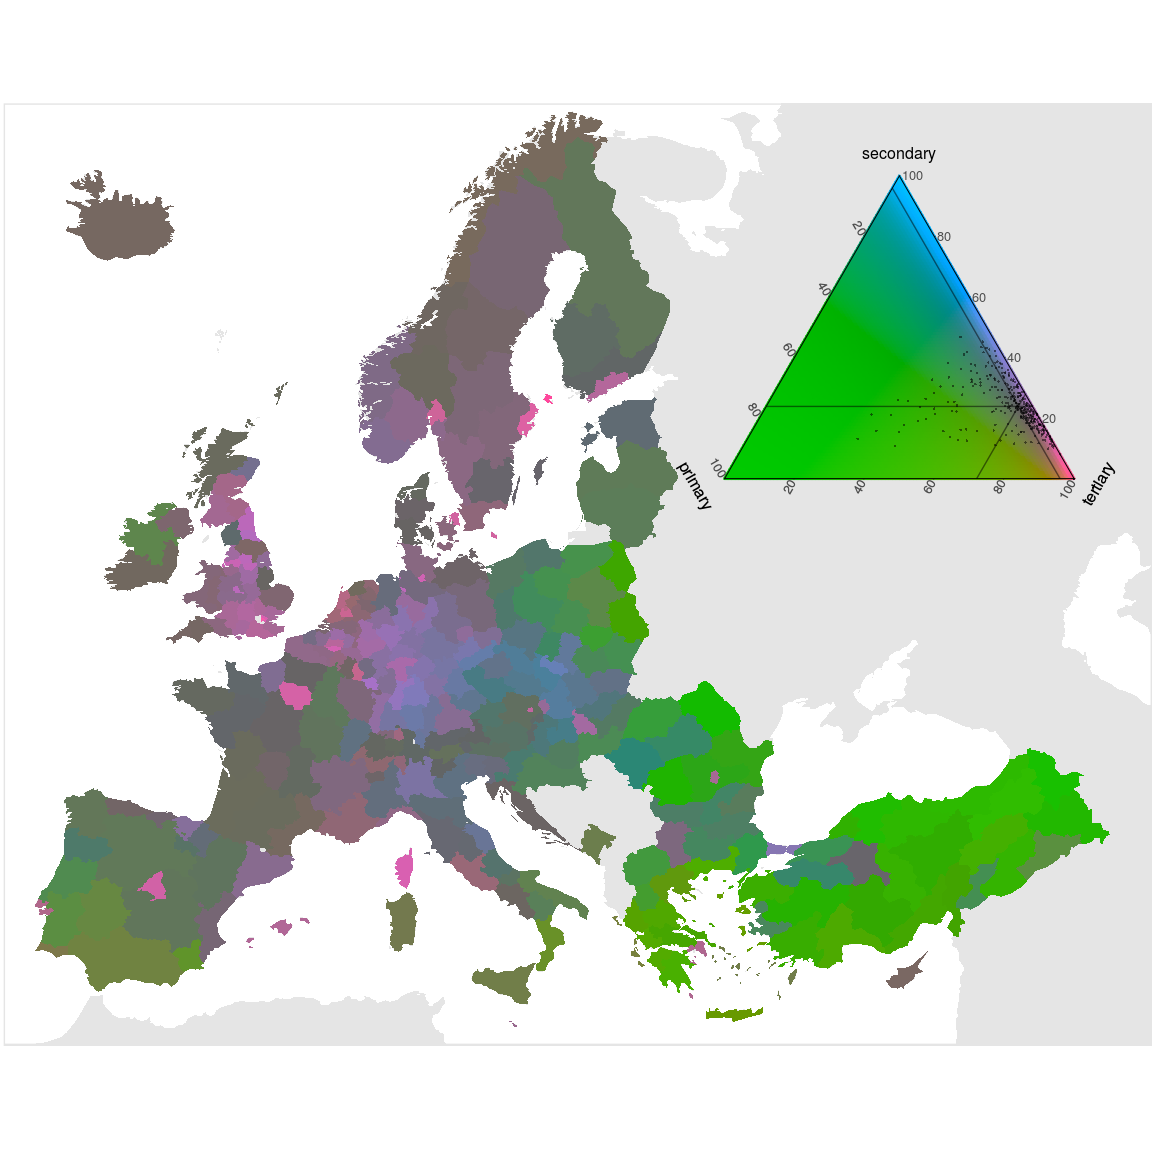
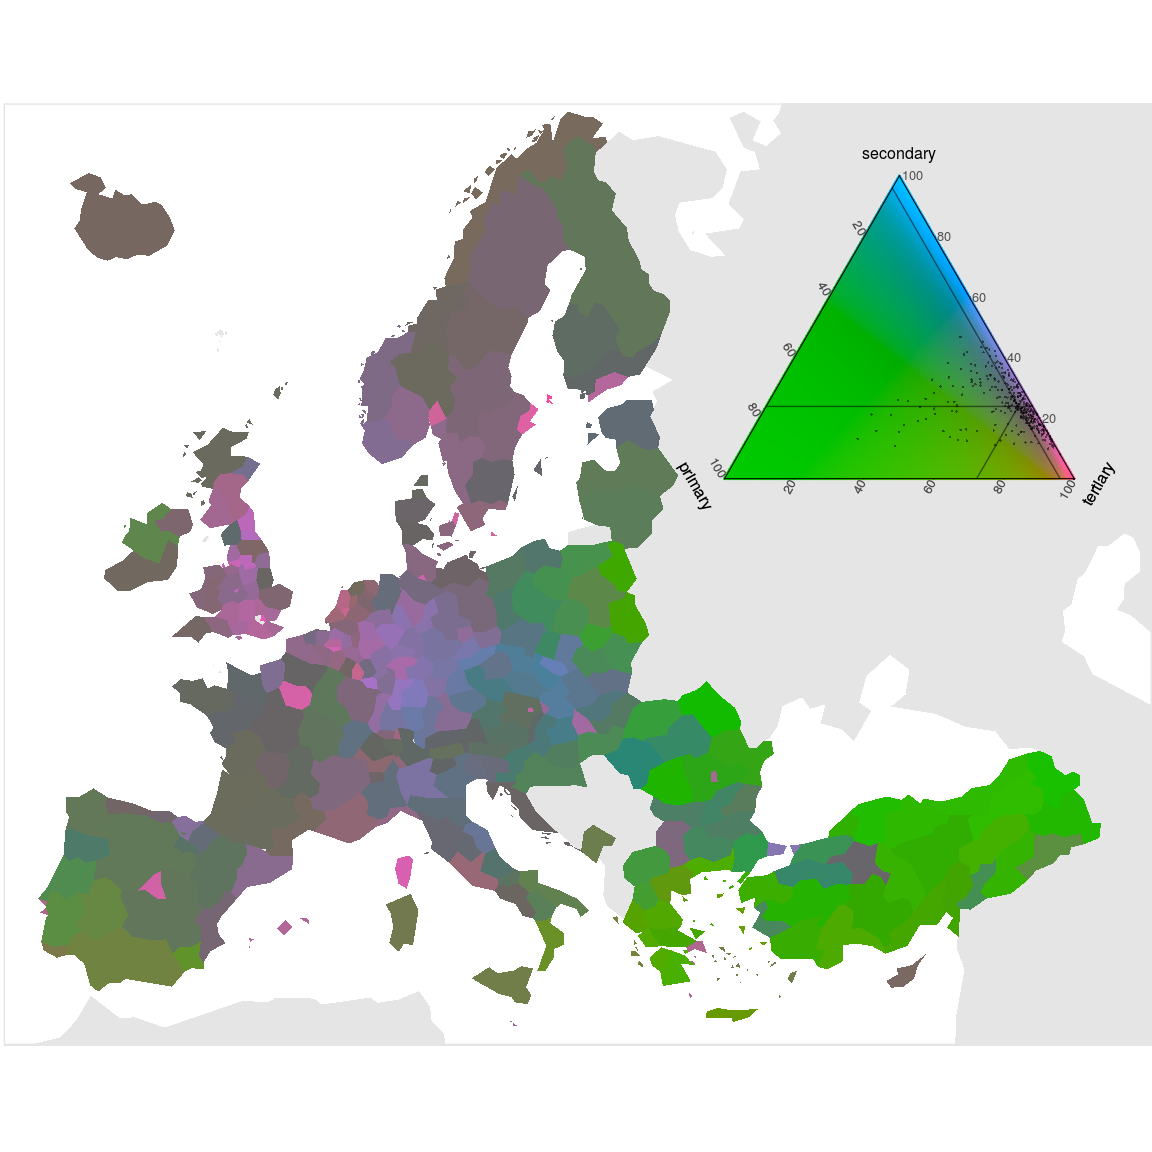
Update Readme & Add Travis

diff --git a/README.md b/README.md
@@ -1,7 +1,12 @@
 Tricolore. A flexible color scale for ternary compositions
 ================
 Jonas Schöley
-Thu Jan 18 16:56:35 2018
+Tue Feb 13 15:17:22 2018
+
+-   [What is 'tricolore'?](#what-is-tricolore)
+-   [Install](#install)
+-   [Getting Started](#getting-started)
+-   [Case study: European labor force composition.](#case-study-european-labor-force-composition.)
 
 What is 'tricolore'?
 --------------------
@@ -41,7 +46,7 @@ tric <- Tricolore(P, 'V1', 'V2', 'V3')
 head(tric$hexsrgb)
 ```
 
-    ## [1] "#3487A6FF" "#776B86FF" "#B3678EFF" "#A26D64FF" "#5F696BFF" "#7D7055FF"
+    ## [1] "#769100FF" "#4489BDFF" "#74656EFF" "#AD6BB3FF" "#706566FF" "#A96899FF"
 
 ``` r
 tric$legend
@@ -64,7 +69,7 @@ head(euro_sectors)
 ```
 
     ## # A tibble: 6 x 5
-    ##    year nuts2 primary secondary tertiary
+    ##    year id    primary secondary tertiary
     ##   <int> <chr>   <dbl>     <dbl>    <dbl>
     ## 1  2016 AT11  0.0442      0.268    0.682
     ## 2  2016 AT12  0.0562      0.244    0.700
@@ -79,13 +84,13 @@ In order to prepare a map I've prepared a data frame with the outlines of the Eu
 head(euro_geo_nuts2)
 ```
 
-    ##      long     lat order  hole piece id group
-    ## 1 4832035 2857837     1 FALSE     1 AT  AT.1
-    ## 2 4833566 2848881     2 FALSE     1 AT  AT.1
-    ## 3 4827292 2837438     3 FALSE     1 AT  AT.1
-    ## 4 4827506 2827929     4 FALSE     1 AT  AT.1
-    ## 5 4836894 2818773     5 FALSE     1 AT  AT.1
-    ## 6 4839233 2808803     6 FALSE     1 AT  AT.1
+    ##      long     lat order  hole piece   id  group
+    ## 1 4786948 2658725     1 FALSE     1 AT11 AT11.1
+    ## 2 4778299 2654263     2 FALSE     1 AT11 AT11.1
+    ## 3 4786401 2720388     3 FALSE     1 AT11 AT11.1
+    ## 4 4805178 2780047     4 FALSE     1 AT11 AT11.1
+    ## 5 4846490 2803511     5 FALSE     1 AT11 AT11.1
+    ## 6 4854633 2791782     6 FALSE     1 AT11 AT11.1
 
 Using tricolore, I color-code each regions labor force composition and merge the resulting vector of hexsrgb color codes with the map data.
 
@@ -95,7 +100,7 @@ tricol <- Tricolore(euro_sectors, 'primary', 'secondary', 'tertiary')
 
 # merge vector of colors with with map data
 euro_sectors$srgb <- tricol$hexsrgb
-map_data <- dplyr::left_join(euro_geo_nuts2, euro_sectors, by = c('id' = 'nuts2'))
+map_data <- dplyr::left_join(euro_geo_nuts2, euro_sectors, by = 'id')
 ```
 
 I use `ggplot2` to plot a map of Europe with each NUTS-2 region shaded according to its corresponding hexsrgb values (`scale_fill_identity()`). I merge the color-key returned by `tricolore` with the map using the `annotation_custom()` function.
@@ -131,10 +136,10 @@ tricol <- Tricolore(euro_sectors, 'primary', 'secondary', 'tertiary', hue = 0.33
 
 *Labor force composition in EU regions. Hue parameter set to 0.33. Data by eurostat.*
 
-Up until now I used continuous colors to show the regional labor force composition. A discrete color scale introduces sharp contours which sometimes pronounce interesting patterns in the data. The `k` parameter determines the number of colors for the color scale. A value of 3 gives a discrete scale of 3^2=9 colors. The discrete scale pronounces the east-west divide in labor force composition.
+Up until now I used continuous colors to show the regional labor force composition. A discrete color scale introduces sharp contours which sometimes pronounce interesting patterns in the data. The `breaks` parameter determines the number of colors for the color scale. A value of 3 gives a discrete scale of 3^2=9 colors. The discrete scale pronounces the east-west divide in labor force composition.
 
 ``` r
-tricol <- Tricolore(euro_sectors, 'primary', 'secondary', 'tertiary', hue = 0.33, k = 3)
+tricol <- Tricolore(euro_sectors, 'primary', 'secondary', 'tertiary', hue = 0.33, breaks = 3)
 ```
 
 ![](README_files/figure-markdown_github/unnamed-chunk-11-1.png)
